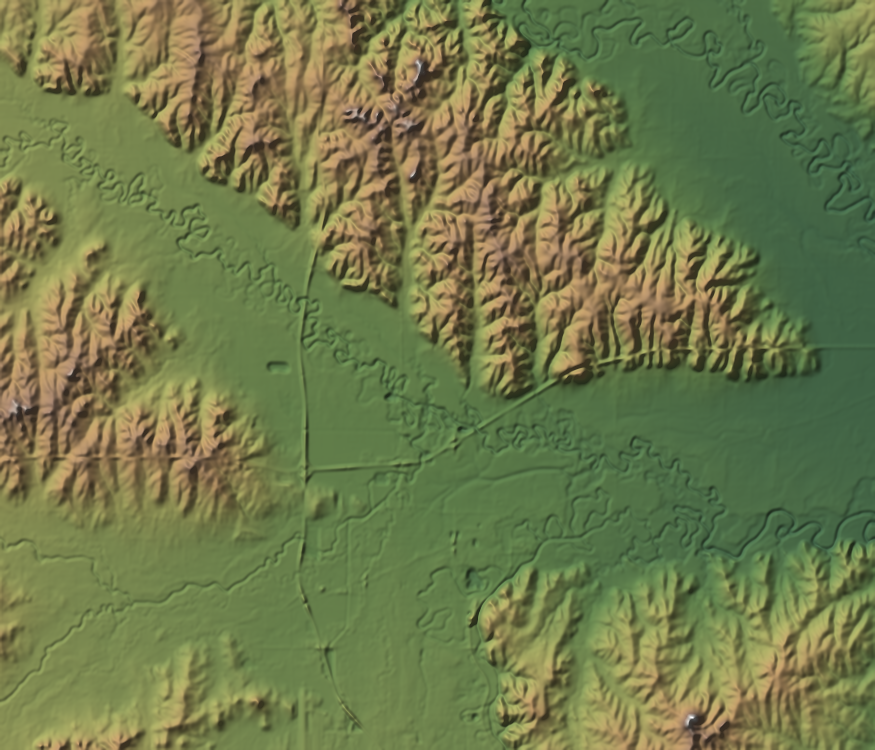
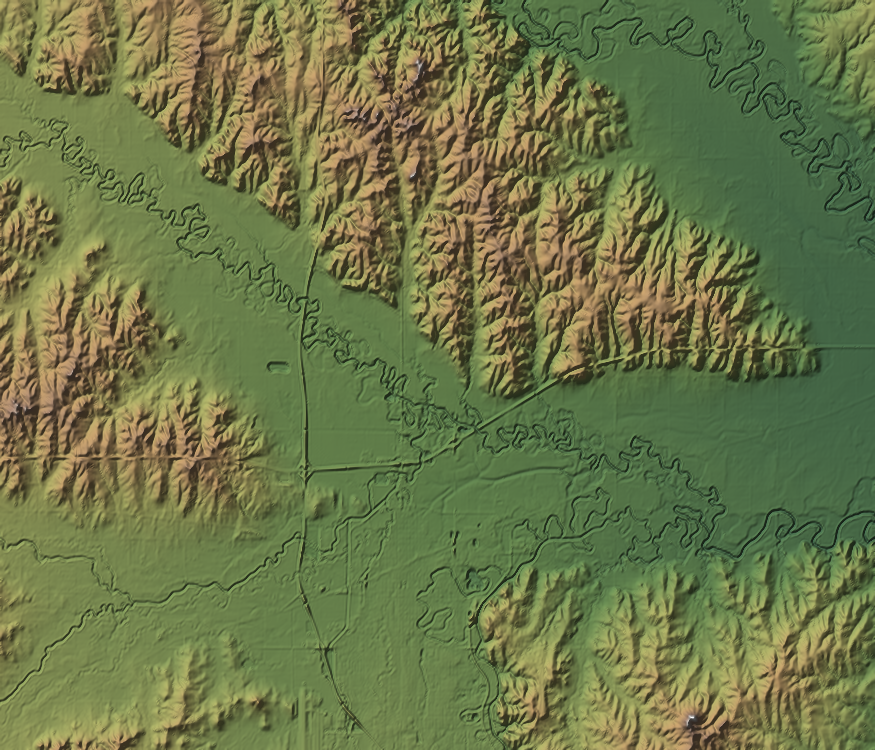
Turn smoothing off by default
Smoothing was tuned in Task 4, before remove_buildings existed, when
blurring was the only way to get built-up clutter off the terrain. Now
that footprints are cut out directly it is doing a job that has a proper
tool, and paying for it in detail.

Compared side by side on DC core, Stoneybrooke, Rainier and Tahoe:
removal-without-blur beat removal-with-blur in every scene, and blur
alone never matched removal. In DC core the Mall, the monuments and the
street structure only appear once the blur is gone. Even the two forested
scenes, where removal has almost nothing to remove (Rainier has 129 OSM
buildings), read better unblurred -- so this is not simply removal
covering for it.

The flag stays for sources noisier than anything tested here; only the
default moves.

Also fixes gallery.py hardcoding smooth_px="auto" instead of using the
pipeline default. The first re-run after this change produced a
byte-identical sheet, which is exactly the failure mode a visual
regression harness must not have: it was reporting its own hardcoded
settings rather than what the tool does.

Consequences worth watching. Stoneybrooke's street grid and building pads
are now plainly visible, and isolated spike counts rise across the board
(stoneybrooke 2425 -> 8476) -- expected, since that metric is relative to
the residual IQR and blur was suppressing exactly the fine structure it
measures. Neither is a defect, but both are visible changes to scenes
that were previously signed off.

diff --git a/src/terrframe/heightmap.py b/src/terrframe/heightmap.py
@@ -659,6 +659,14 @@ def smooth(arr: np.ndarray, sigma: float) -> np.ndarray:
     Blurring before exaggeration means the vertical stretch amplifies landforms
     rather than clutter.
 
+    **Off by default.** This was tuned before :func:`terrframe.features.
+    remove_buildings` existed, when blurring was the only way to get built-up
+    clutter off the terrain. Now that footprints are cut out directly, blurring
+    costs detail without buying anything: compared side by side on DC core,
+    Stoneybrooke, Rainier and Tahoe, removal-without-blur beat
+    removal-with-blur every time, and blur alone never matched removal. It is
+    kept as an opt-in for sources noisier than anything tested here.
+
     Args:
         arr: 2D elevation array.
         sigma: Blur radius in pixels. Zero or negative is a no-op.
@@ -743,7 +751,7 @@ def build_heightmap(
     target_px: int = 800,
     exaggeration: float = 1.0,
     flatten_water_level: float | str | None = "auto",
-    smooth_px: float | str | None = "auto",
+    smooth_px: float | str | None = None,
     despike: bool = True,
     despike_threshold: float = DESPIKE_THRESHOLD,
     cache_dir: str = ".tile_cache",
@@ -769,6 +777,7 @@ def build_heightmap(
             below it, a number clamps to that height, and ``None`` skips it.
         smooth_px: Gaussian sigma in pixels, ``"auto"`` to derive one from the
             grid's ground resolution, or ``None``/``0`` for no smoothing.
+            Defaults to off -- see :func:`smooth` for why.
         despike: Whether to remove isolated outlier pixels.
         despike_threshold: Interquartile ranges beyond which a deviation from
             the local median counts as a spike.

diff --git a/tests/test_cleanup.py b/tests/test_cleanup.py
@@ -360,10 +360,22 @@ def test_smooth_px_none_disables_smoothing(stub_tiles: None) -> None:
     assert _gradient_roughness(blurred.elevation) < _gradient_roughness(sharp.elevation)
 
 
+def test_smoothing_is_off_by_default(stub_tiles: None) -> None:
+    """Blur costs detail and buys nothing now that buildings are cut out."""
+    from terrframe.heightmap import PRINT_WIDTH_MM
+
+    default = build_heightmap(*BBOX)
+    unsmoothed = build_heightmap(*BBOX, smooth_px=None)
+    np.testing.assert_array_equal(default.elevation, unsmoothed.elevation)
+
+
 def test_auto_smoothing_matches_the_grids_resolution(stub_tiles: None) -> None:
-    """'auto' resolves against the finished grid's own metres-per-pixel."""
-    result = build_heightmap(*BBOX)
-    expected_sigma = auto_smooth_sigma(result.meters_per_px)
+    """'auto' still resolves against the finished grid, when asked for."""
+    from terrframe.heightmap import PRINT_WIDTH_MM
+
+    result = build_heightmap(*BBOX, smooth_px="auto")
+    mm_per_px = PRINT_WIDTH_MM / max(result.elevation.shape[1] - 1, 1)
+    expected_sigma = auto_smooth_sigma(result.meters_per_px, mm_per_px)
 
     explicit = build_heightmap(*BBOX, smooth_px=expected_sigma)
     np.testing.assert_allclose(result.elevation, explicit.elevation, rtol=1e-6)

diff --git a/scripts/gallery.py b/scripts/gallery.py
@@ -181,6 +181,9 @@ def render_scene(
     south, west, north, east = scene.bbox
 
     forced_sigma = overrides.get("smooth")
+    # No override means the pipeline default, not a hardcoded "auto" -- the
+    # gallery is meant to show what the tool actually produces.
+    build_kwargs = {} if forced_sigma is None else {"smooth_px": forced_sigma or None}
     heightmap = build_heightmap(
         south,
         west,
@@ -188,18 +191,10 @@ def render_scene(
         east,
         target_px=target_px,
         exaggeration=1.0,
-        smooth_px=("auto" if forced_sigma is None else (forced_sigma or None)),
+        **build_kwargs,
     )
-    # Mirror what build_heightmap actually used, print cap included, or the
-    # reported sigma silently drifts from the one that shaped the grid.
-    sigma = (
-        auto_smooth_sigma(
-            heightmap.meters_per_px,
-            PRINT_WIDTH_MM / max(heightmap.elevation.shape[1] - 1, 1),
-        )
-        if forced_sigma is None
-        else forced_sigma
-    )
+    # Report the sigma actually used: zero unless one was asked for.
+    sigma = 0.0 if forced_sigma is None else forced_sigma
 
     if "exaggeration" in overrides:
         factor = float(overrides["exaggeration"])

diff --git a/tests/test_gallery.py b/tests/test_gallery.py
@@ -144,8 +144,10 @@ def test_measure_reports_true_relief_not_exaggerated(stub_tiles: None) -> None:
 
     assert tall_m["relief_m"] == pytest.approx(plain_m["relief_m"], rel=1e-3)
     assert tall_m["printed_relief_mm"] == pytest.approx(3.0 * plain_m["printed_relief_mm"], rel=1e-3)
+    # Both figures are rounded to 2dp independently before storage, so they can
+    # disagree in the last digit; the tolerance is that rounding, not slack.
     assert tall_m["printed_relief_pct_of_width"] == pytest.approx(
-        100.0 * tall_m["printed_relief_mm"] / gallery.REFERENCE_WIDTH_MM
+        100.0 * tall_m["printed_relief_mm"] / gallery.REFERENCE_WIDTH_MM, abs=0.01
     )
 
 

diff --git a/src/terrframe/cli.py b/src/terrframe/cli.py
@@ -151,11 +151,12 @@ def _build_parser() -> argparse.ArgumentParser:
     parser.add_argument(
         "--smooth",
         type=_parse_smooth,
-        default="auto",
+        default=None,
         metavar="SIGMA",
         help=(
-            "gaussian smoothing radius in pixels, 'auto' to scale it to the "
-            "grid's resolution, or 'none' (default: auto)"
+            "gaussian smoothing radius in pixels, or 'auto' to scale it to the "
+            "grid's resolution (default: none -- building removal declutters "
+            "better, and blurring only costs detail)"
         ),
     )
     parser.add_argument(

diff --git a/tests/test_cli.py b/tests/test_cli.py
@@ -245,7 +245,7 @@ def test_defaults_enable_cleanup(stub_tiles: None, tmp_path: Path) -> None:
     finally:
         cli.build_heightmap = real  # type: ignore[assignment]
 
-    assert seen["smooth_px"] == "auto"
+    assert seen["smooth_px"] is None, "blur is off by default; removal declutters"
     assert seen["despike"] is True
 
 
